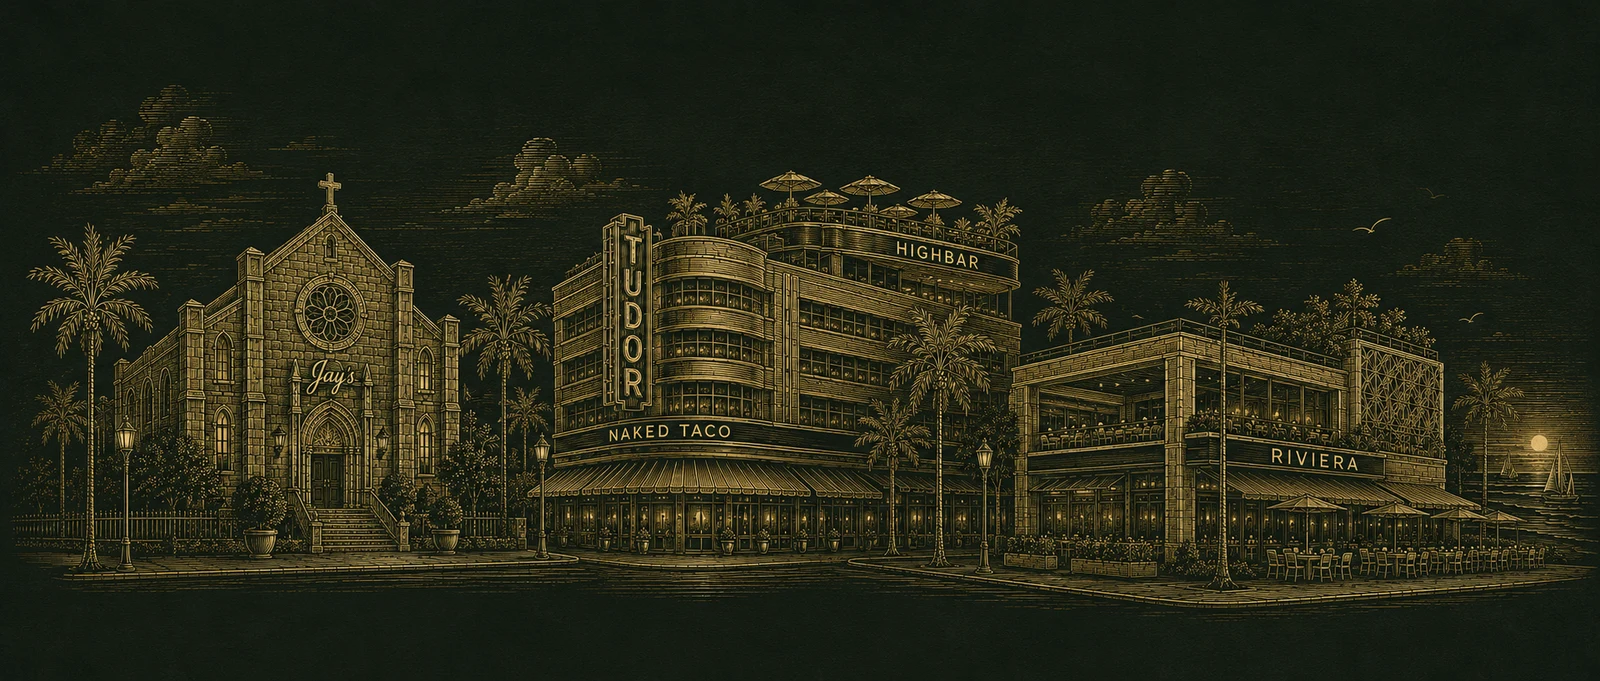
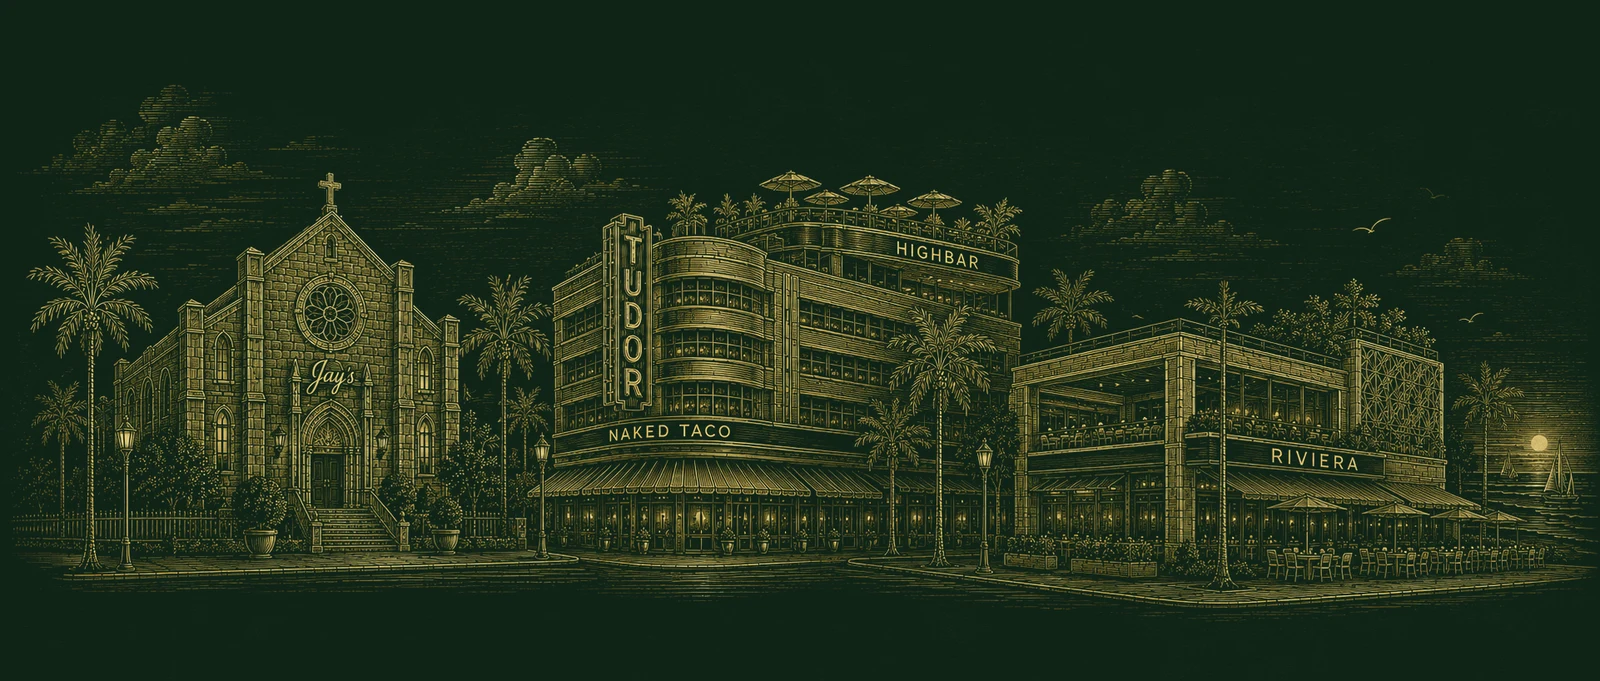
Match engraving background to the page green for a seamless join
Recolour the panorama so its flat background is exactly #0F2417 (forest):
composite the gold detail onto the page green and lift the artwork's own
darker, olive background floor, which also flattens its vignette. The
engraving now lines up seamlessly with the page — sampled boundary is
within one level of the page background. Drop the now-unneeded top fade and
the ambient gold wash (which tinted only the area above the opaque panorama
and left a faint warm/cool edge); keep a whisper of left/right edge softening.

Claude-Session: https://claude.ai/code/session_01VsovetmdFJF63PxXyB5AtR

diff --git a/components/home/Hero.tsx b/components/home/Hero.tsx
@@ -59,13 +59,6 @@ export function Hero() {
 
   return (
     <section className="hero relative h-[100svh] min-h-[620px] w-full overflow-hidden bg-forest-deep">
-      {/* ambient gold wash behind the mark */}
-      <div
-        aria-hidden="true"
-        className="pointer-events-none absolute inset-0 z-0"
-        style={{ background: "radial-gradient(60% 42% at 50% 30%, rgba(198,162,76,0.12), transparent 70%)" }}
-      />
-
       {/* --------------------------- panorama (bottom layer) --------------------------- */}
       <div className="absolute inset-x-0 bottom-0 z-10">
         <div
@@ -86,21 +79,14 @@ export function Hero() {
             />
           </picture>
 
-          {/* whisper-soft blend at the very top edge only — the engraving's
-              own dark sky carries the rest, so the graphic stays fully visible */}
+          {/* The engraving background is recoloured to the exact page green
+              (#0F2417), so it lines up seamlessly — no top fade needed. Only a
+              whisper at the outer left/right edges to soften where the buildings
+              meet the viewport edge. */}
           <div
             aria-hidden="true"
             className="pointer-events-none absolute inset-0"
-            style={{
-              background:
-                "linear-gradient(to top, rgba(15,36,23,0) 0%, rgba(15,36,23,0) 88%, rgba(15,36,23,0.5) 96%, #0f2417 100%)",
-            }}
-          />
-          {/* soften left/right edges */}
-          <div
-            aria-hidden="true"
-            className="pointer-events-none absolute inset-0"
-            style={{ background: "linear-gradient(to right, #0f2417 0%, rgba(15,36,23,0) 12%, rgba(15,36,23,0) 88%, #0f2417 100%)" }}
+            style={{ background: "linear-gradient(to right, #0f2417 0%, rgba(15,36,23,0) 6%, rgba(15,36,23,0) 94%, #0f2417 100%)" }}
           />
 
           {/* atmospheric drift — moon glow, window embers, drifting sparks */}
